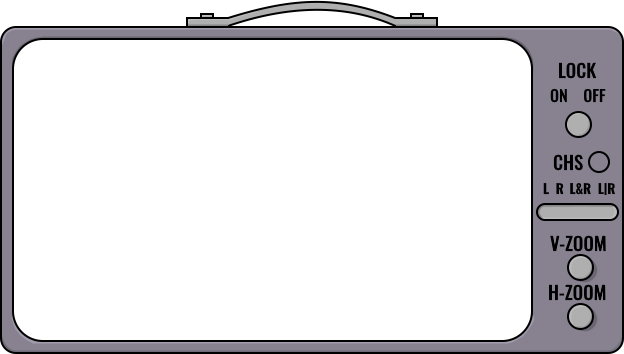
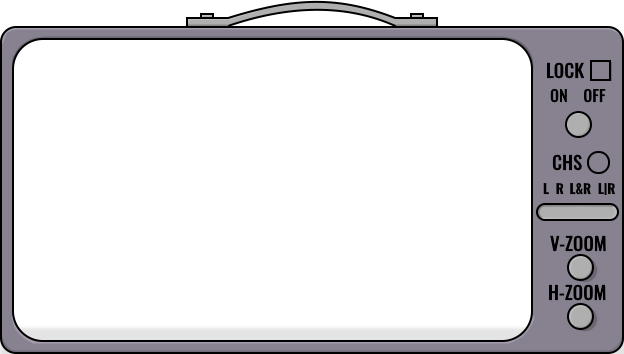
Added freeze button to oscilloscope

diff --git a/audio_plugin/source/ScopeView.cpp b/audio_plugin/source/ScopeView.cpp
@@ -17,6 +17,13 @@ int niceDiv(int viewLen) {
 // Detent centres under the printed L / R / L&R / L|R labels,
 // as fractions of the groove width. Re-measure from the case art.
 constexpr float kDetentX[4] = {0.128f, 0.285f, 0.53f, 0.84f};
+
+constexpr float kPreTriggerFrac = 0.15f;
+
+// Ask for more than the ring can hold: readScopeSpan clamps the request to
+// its capacity, so the frozen record depth becomes a constant (ring
+// capacity) instead of a function of the H-zoom at the freeze moment.
+constexpr size_t kFreezeDepth = size_t(1) << 20;
 }  // namespace
 
 ScopeView::ScopeView(PluginProcessor& p) : proc_(p) {
@@ -26,15 +33,32 @@ ScopeView::ScopeView(PluginProcessor& p) : proc_(p) {
       "Waveform tracking: ON = triggered (stable picture), OFF = scroll "
       "(true-time).");
   trackBtn_.onClick = [this] {
+    if (freeze_)
+      return;
     trailN_[0] = trailN_[1] = 0;
     repaint();
   };
 
+  freezeBtn_.onToggle = [this] {
+    freeze_ = freezeBtn_.isFrozen();
+    if (freeze_) {
+      freezeCapture();
+      freezeRight_ = viewStart_ + viewLen_;
+      trailN_[0] = std::min(trailN_[0], 1);
+      trailN_[1] = std::min(trailN_[1], 1);
+    } else {
+      trailN_[0] = trailN_[1] = 0;
+    }
+    repaint();
+  };
+  addAndMakeVisible(freezeBtn_);
+
   chanBtn_.onModeChange_ = [this](int mode) {
     if (mode == chanMode_)
       return;
-    chanMode_ = mode;  // drag: jump straight to the detent under cursor
-    trailN_[0] = trailN_[1] = 0;
+    chanMode_ = mode;
+    if (!freeze_)
+      trailN_[0] = trailN_[1] = 0;
     repaint();
   };
   chanBtn_.setTooltip(
@@ -68,7 +92,8 @@ ScopeView::ScopeView(PluginProcessor& p) : proc_(p) {
       "controlled using MWheel on the display.");
   hZoom_.setScrollWheelEnabled(false);
   hZoom_.onValueChange = [this] {
-    trailN_[0] = trailN_[1] = 0;
+    if (!freeze_)
+      trailN_[0] = trailN_[1] = 0;
     repaint();
   };
 
@@ -189,7 +214,8 @@ double ScopeView::hFromLen(int len) const {
 
 void ScopeView::resized() {
   trackBtn_.setBounds(juce::Rectangle<int>(565, 111, 27, 27));  // LOCK
-  smChip_.setBounds(juce::Rectangle<int>(589, 152, 20, 20));    // CHS Indicator
+  freezeBtn_.setBounds(juce::Rectangle<int>(590, 60, 21, 21));  // FREEZE
+  smChip_.setBounds(juce::Rectangle<int>(588, 152, 21, 21));    // CHS Indicator
   chanBtn_.setBounds(juce::Rectangle<int>(536, 203, 83, 18));   // CHS Groove
   vZoom_.setBounds(juce::Rectangle<int>(567, 254, 27, 27));     // V-ZOOM
   hZoom_.setBounds(juce::Rectangle<int>(567, 303, 27, 27));     // H-ZOOM
@@ -259,12 +285,89 @@ void ScopeView::applyUiState() {
   vZoom_.setValue(s.vExp, juce::dontSendNotification);
   chanMode_ = s.chanMode;
   trackBtn_.setToggleState(s.track, juce::dontSendNotification);
+  freezeBtn_.setFrozen(false);  // session restore always unfreezes
+  freeze_ = false;
   trailN_[0] = trailN_[1] = 0;
+}
+
+void ScopeView::freezeCapture() {
+  const size_t keepN[2] = {spanN_[0], spanN_[1]};
+  size_t got[2] = {0, 0};
+  uint64_t st[2] = {0, 0};
+
+  // Deep read of the output history. A failed read (ring younger than the
+  // request, e.g. right after start / sample-rate change) leaves that
+  // channel's shallow capture untouched.
+  for (int ch = 0; ch < 2; ++ch) {
+    span_[ch].resize(kFreezeDepth);
+    got[ch] = proc_.readScopeSpan(span_[ch].data(), kFreezeDepth, st[ch], ch);
+    if (got[ch] > 0) {
+      spanN_[ch] = got[ch];
+      spanStart_[ch] = st[ch];
+      span_[ch].resize(got[ch]);
+    } else {
+      span_[ch].resize(keepN[ch]);  // resize up preserved the old samples
+    }
+  }
+  hasR_ = spanN_[1] > 0 && spanStart_[0] == spanStart_[1];
+  stereo_ = hasR_ && chanMode_ >= 2;
+
+  // Span indices shifted back by the extra depth: keep the same absolute
+  // view window on screen (no visual jump on the click).
+  if (spanN_[prim_] > keepN[prim_])
+    viewStart_ += static_cast<int>(spanN_[prim_] - keepN[prim_]);
+
+  // Trigger reference lives in old span coordinates: drop it.
+  prevVs_ = -1;
+  trigBuf_.clear();
+
+  // Markers: re-read deep so anchor dots cover the whole frozen record.
+  // Reader clamps to cap - 64 internally, so ring size is the ceiling;
+  // refresh() shrinks the vector back to 8192 on the next live frame.
+  marks_.resize(16384);
+  markN_ = proc_.readMarkerSpan(marks_.data(), marks_.size());
+  marks_.resize(markN_);
+
+  // Ghost input: same 1:1 alignment as refresh() (start = spanStart - W),
+  // just deeper. Short/failed read disables the ghost rather than misaligns.
+  const uint64_t W = proc_.getLatencySamples();
+  for (int ch = 0; ch < 2; ++ch) {
+    if (channelActive(ch) && W > 0 && spanStart_[ch] >= W && spanN_[ch] > 0) {
+      inSpan_[ch].resize(spanN_[ch]);
+      const size_t g = proc_.readInputSpanAt(inSpan_[ch].data(), spanN_[ch],
+                                             spanStart_[ch] - W, ch);
+      inN_[ch] = (g == spanN_[ch]) ? g : 0;
+      if (inN_[ch] == 0)
+        inSpan_[ch].resize(0);
+    } else {
+      inN_[ch] = 0;
+      inSpan_[ch].resize(0);
+    }
+  }
 }
 
 void ScopeView::refresh() {
   viewLen_ = lenFromH(hZoom_.getValue());
   vZoomGain_ = static_cast<float>(std::pow(2.0, vZoom_.getValue()));
+
+  if (freeze_) {
+    const int held = static_cast<int>(spanN_[prim_]);
+    viewLen_ = std::min(viewLen_, std::min(held, freezeRight_));
+    viewStart_ = freezeRight_ - viewLen_;  // правый край неподвижен в записи
+    hZoom_.setValue(hFromLen(viewLen_), juce::dontSendNotification);
+    const float scale = traceRect().getHeight() * 0.45f * vZoomGain_;
+    for (int ch = 0; ch < 2; ++ch) {
+      if (!channelActive(ch) || spanN_[ch] == 0) {
+        trailN_[ch] = 0;
+        continue;
+      }
+      buildPaths(ch, laneRect(ch), scale, true);
+    }
+    updateSmChip();
+    pushUiState();
+    return;
+  }
+
   const size_t want = static_cast<size_t>(viewLen_) * 2 + 4096;
   const uint64_t W = static_cast<uint64_t>(proc_.getLatencySamples());
 
@@ -317,7 +420,7 @@ void ScopeView::refresh() {
   if (tracking) {
     const int t = findTrigger(span_[prim_].data(), spanN_[prim_]);
     if (t >= 0) {
-      vs = t - viewLen_ * 15 / 100;  // pre-trigger 15%
+      vs = t - static_cast<int>(viewLen_ * kPreTriggerFrac);  // pre-trigger 15%
       if (vs < 0)
         vs = 0;
       locked_ = true;
@@ -372,7 +475,7 @@ int ScopeView::findTrigger(const float* s, size_t n) const {
   if (peak < 1.0e-4f)
     return -1;                      // silence / DC: nothing to lock onto
   const float gate = 0.05f * peak;  // schmitt hysteresis vs noise
-  const int pre = viewLen_ * 15 / 100;
+  const int pre = static_cast<int>(viewLen_ * kPreTriggerFrac);
   const int limit = static_cast<int>(n);
   bool high = false;
   int best = -1;  // newest LOW->HIGH whose whole view still fits the span
@@ -402,7 +505,7 @@ int ScopeView::findTriggerAligned(const float* s,
   if (peak < 1.0e-4f)
     return -1;
   const float gate = 0.05f * peak;
-  const int pre = viewLen_ * 15 / 100;
+  const int pre = static_cast<int>(viewLen_ * kPreTriggerFrac);
   const int lo = std::max(0, center - radius);
   const int hi = std::min(limit - viewLen_, center + radius);
   bool high = false;
@@ -536,7 +639,13 @@ void ScopeView::buildPaths(int ch,
   inPath_[ch] = in;
   outPath_[ch] = out;
 
-  if (trackBtn_.getToggleState() && locked_) {
+  if (freeze_) {
+    // Simply redraw the main track into the freeze area without shifting the
+    // phosphor trail.
+    trail_[ch][0] = out;
+    if (trailN_[ch] == 0)
+      trailN_[ch] = 1;
+  } else if (trackBtn_.getToggleState() && locked_) {
     trail_[ch][0] = out;  // triggered: frames overlay, no trail
     trailN_[ch] = 1;
   } else {
@@ -687,9 +796,12 @@ void ScopeView::paint(juce::Graphics& g) {
           mk.pos >= viewAbs + static_cast<uint64_t>(viewLen_))
         continue;
       const int p = static_cast<int>(mk.pos - viewAbs);
+      const int idx = viewStart_ + p;
+      if (idx < 0 || idx >= static_cast<int>(spanN_[ch]))
+        continue;
+      const float v = span_[ch][static_cast<size_t>(idx)];
       const float x = r.getX() + (static_cast<float>(p) + 0.5f) * r.getWidth() /
                                      static_cast<float>(viewLen_);
-      const float v = span_[ch][static_cast<size_t>(viewStart_ + p)];
       const float y = cy - v * scale;
       g.setColour(mk.kind == 0 ? ui::markOf(ch) : ui::markFall);
       g.fillEllipse(x - ui::dotR, y - ui::dotR, ui::dotR * 2.0f,

diff --git a/audio_plugin/include/ScopeView.h b/audio_plugin/include/ScopeView.h
@@ -78,7 +78,65 @@ private:
   int prim_ = 0;         // effective primary channel
   bool stereo_ = false;  // overlay/split actively drawing two channels
   bool hasR_ = false;    // R history available and aligned
-  uint32_t uiSeq_ = 0;  // last seen UiState::seq
+  uint32_t uiSeq_ = 0;   // last seen UiState::seq
+
+  // Freeze button: orange circle when active, grey lampOff otherwise,
+  // with the freeze.png icon painted on top. Click toggles the hold state;
+  // the parent wires the callback to reset trails and skip refresh().
+  class FreezeBtn : public juce::Component, public juce::TooltipClient {
+  public:
+    FreezeBtn() {
+      freezeImg_ = juce::ImageCache::getFromMemory(BinaryData::freeze_png,
+                                                   BinaryData::freeze_pngSize);
+      setMouseCursor(juce::MouseCursor::PointingHandCursor);
+    }
+
+    bool isFrozen() const { return frozen_; }
+
+    void setFrozen(bool on) {
+      if (on != frozen_) {
+        frozen_ = on;
+        repaint();
+      }
+    }
+
+    std::function<void()> onToggle;
+
+    void mouseUp(const juce::MouseEvent& e) override {
+      if (getLocalBounds().contains(e.getPosition())) {
+        frozen_ = !frozen_;
+        repaint();
+        if (onToggle)
+          onToggle();
+      }
+    }
+
+    void paint(juce::Graphics& g) override {
+      const auto r = getLocalBounds().toFloat().reduced(1.0f);
+      g.setColour(frozen_ ? ui::accentR : ui::lampOff);
+      g.fillRect(r);
+      if (!freezeImg_.isNull()) {
+        g.drawImage(freezeImg_, getLocalBounds().toFloat());
+      }
+    }
+
+    juce::String getTooltip() override {
+      return frozen_
+                 ? "FREEZE is ON: click to resume scope updates."
+                 : "FREEZE: click to hold the current frame for inspection.";
+    }
+
+  private:
+    bool frozen_ = false;
+    juce::Image freezeImg_;
+  };
+  FreezeBtn freezeBtn_;
+  // One-shot deep history read at the freeze moment: the frozen record
+  // becomes as deep as the scope ring allows instead of 2*viewLen+4096, so
+  // zoom-out headroom no longer depends on the H-zoom at click time.
+  void freezeCapture();  
+  bool freeze_ = false;
+  int freezeRight_ = 0;  // coordinate of the right edge of the frozen frame
 
   // Passive stereo-width indicator
   class SmChip : public juce::Component, public juce::TooltipClient {
